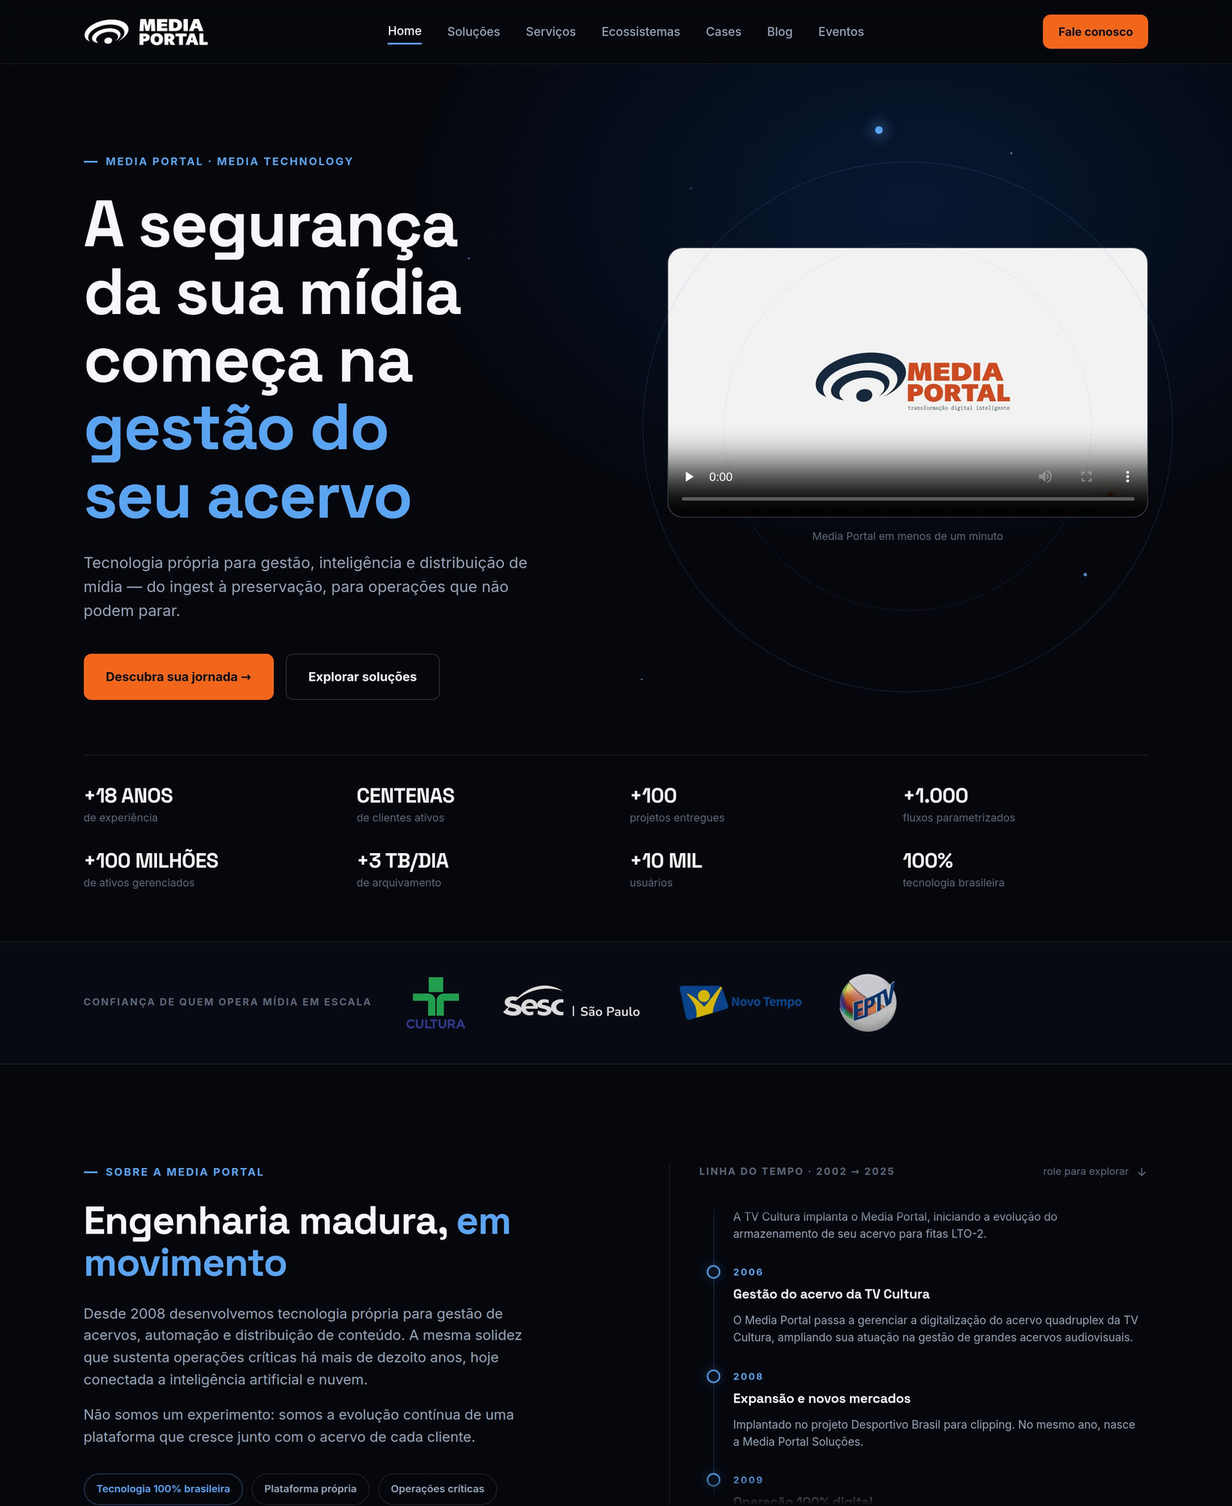
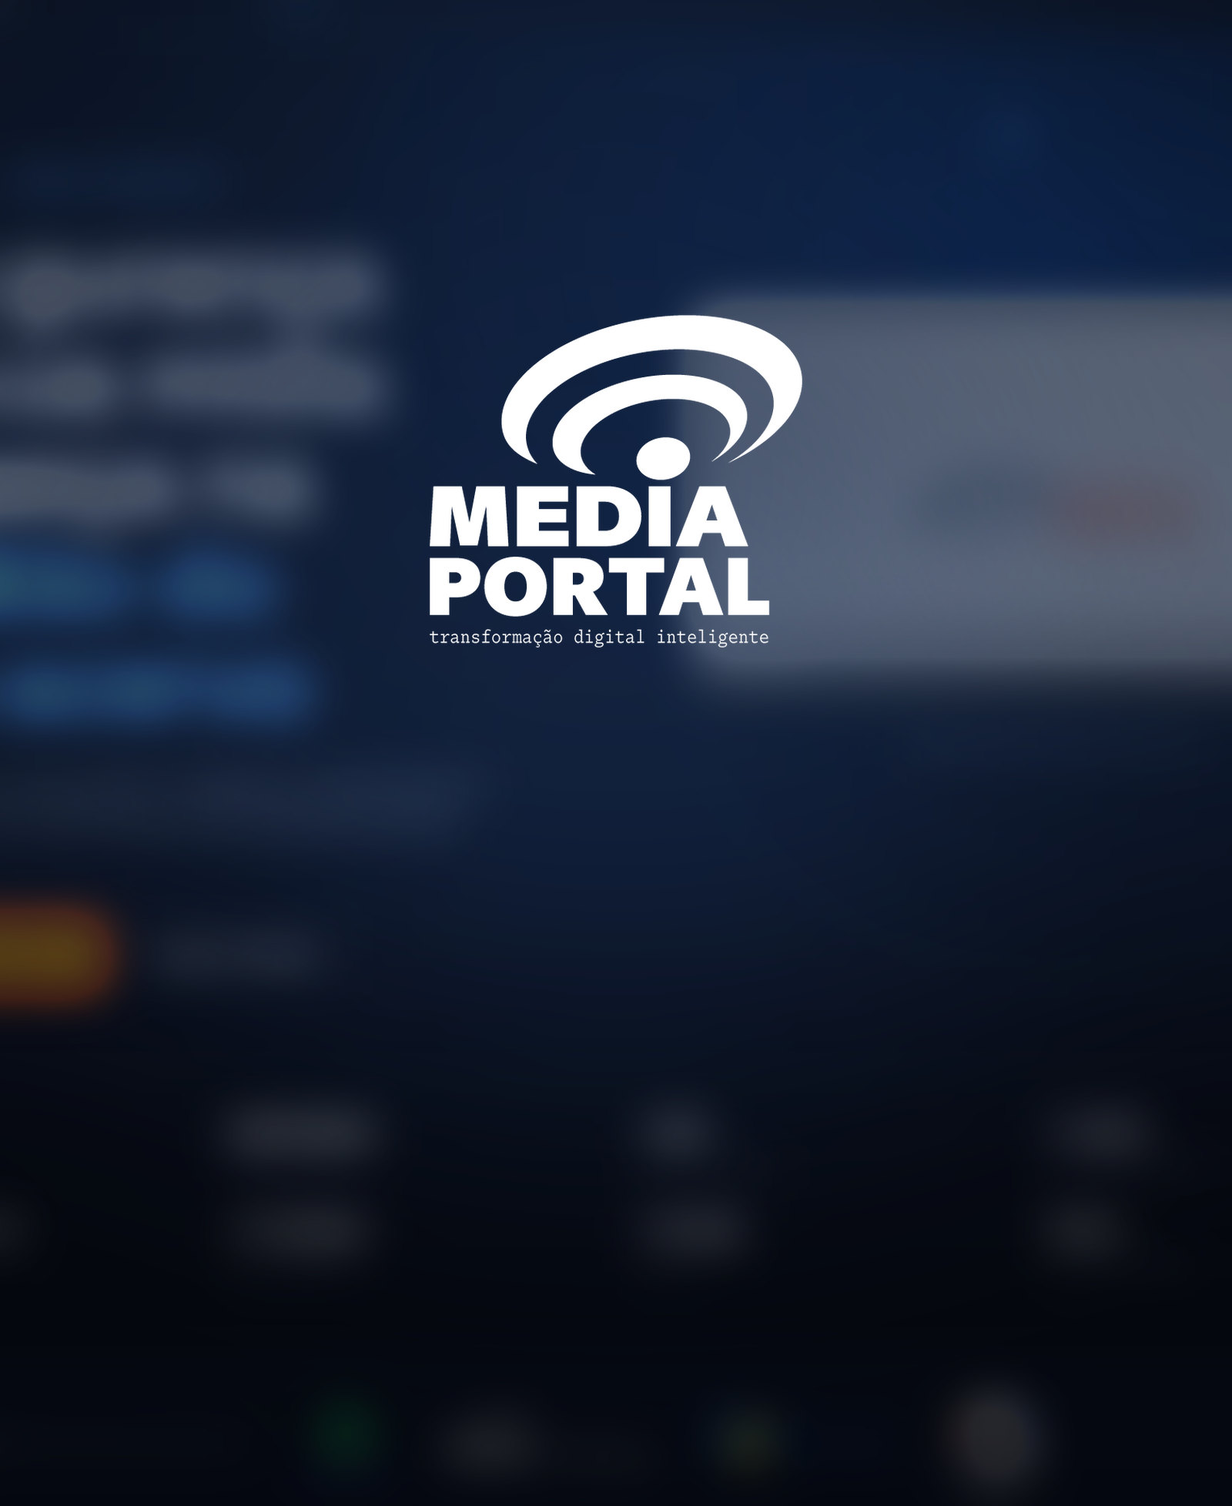
Capas dos casos sem texto disputando a leitura (#42)
A capa do Media Portal era o print legível da home, e a manchete do site
disputava com o título do caso: quem passava lia o texto errado. Agora o
mesmo print entra como textura — desfocado, escurecido, com as altas luzes
comprimidas — e o assunto é o logo da marca, centrado. A receita completa
(desfoque, véu, sombra radial, tamanho e posição do logo) está no README,
para refazer quando o site mudar.

Com o logo na capa, o título parava de repetir o nome: virou
"Reposicionamento digital", que é o trabalho.

A peça de campanha do Caso 03 continua montada na prancha, na proporção em
que foi feita, mas a prancha vazia em volta dela saiu: o mesmo arquivo
entra atrás, ampliado e desfocado, e a cor da peça toma o cartão inteiro.
Sem segunda imagem para baixar, e sem aparecer no papel.

Menos texto nas capas: cada uma ficou com um chapéu só — o segundo repetia
o setor, que já está no detalhe do caso — e a linha "toque em ver detalhes"
saiu da abertura da seção, já que o botão da capa diz isso.

Conferido nas duas larguras, em repouso e no hover.

Claude-Session: https://claude.ai/code/session_01DMZYf3j3xxU7wt98tdueK8

diff --git a/en/index.html b/en/index.html
@@ -1059,6 +1059,26 @@ button {
 .case__cover--piece .case__shot { display: block; width: 100%; height: auto; }
 .case__cover--piece .media__hint,
 .case__cover--piece .media__client { display: none; }
+/* O fundo da peça: o MESMO arquivo, ampliado e desfocado atrás dela. A prancha
+   vazia em volta de um banner era espaço morto no cartão; a própria arte
+   desfocada enche a capa sem trazer segunda imagem para baixar. O `inset`
+   negativo é o que impede a borda clara que o desfoque deixaria na moldura. */
+.case__fundo {
+  position: absolute;
+  inset: -10%;
+  width: 120%;
+  height: 120%;
+  /* o max-width: 100% global travaria a largura em 100% da capa e deixaria
+     uma tira da malha à mostra na direita */
+  max-width: none;
+  object-fit: cover;
+  filter: blur(34px) saturate(1.5) brightness(0.52);
+  z-index: 0;
+}
+/* A peça descola do fundo: sem sombra, arte e desfoque encostam e viram borrão. */
+.case__cover--piece .case__media .media {
+  box-shadow: 0 26px 60px rgba(4, 6, 12, 0.55);
+}
 
 /* Faixa de imagens: com uma só é a capa; com duas ou mais vira carrossel de
    arrasto nativo (scroll-snap), e o script acrescenta marcadores e teclado. */
@@ -1081,13 +1101,6 @@ button {
   object-fit: cover;
   scroll-snap-align: center;
 }
-/* Print de site não é fotografia: o assunto não está no meio, está no alto e à
-   esquerda — manchete, logo e menu. A capa muda de proporção entre o desktop
-   (quase quadrada) e o celular (bem mais alta), e o corte centralizado comia
-   justamente a primeira palavra da manchete na tela pequena. Ancorar no alto e
-   à esquerda faz o corte sair de onde não há informação: o rodapé da imagem no
-   desktop, a borda direita no celular. */
-.case__shot--print { object-position: 12% top; }
 .case__dots {
   position: absolute;
   z-index: 3;
@@ -1911,6 +1924,8 @@ select.field__input option { background: var(--bg-card); color: var(--ink); }
   .case__reveal { opacity: 1 !important; transform: none !important; transition: none !important; }
   .case__title::after { transform: none !important; }
   .case__cover:not(.case__cover--photo) { background: none; }
+  /* o fundo desfocado é efeito de tela: no papel seria um borrão de tinta */
+  .case__fundo { display: none !important; }
   a { color: inherit; }
 }
 </style>
@@ -2234,22 +2249,21 @@ select.field__input option { background: var(--bg-card); color: var(--ink); }
       <div>
         <h2 class="section-title" data-en="Proof, not promise." data-pt="Prova, não promessa.">Proof, not promise.</h2>
       </div>
-      <p class="section-intro" data-en="Tap “see details” to open the problem, the solution and the value delivered." data-pt="Toque em “ver detalhes” pra abrir problema, solução e valor entregue.">Tap “see details” to open the problem, the solution and the value delivered.</p>
     </div>
 
     <div class="cases" tabindex="0" role="group" aria-label="Project cases; focusing pauses the auto-advance" data-en-aria-label="Project cases; focusing pauses the auto-advance" data-pt-aria-label="Casos de projeto; o foco pausa o avanço automático">
 <!-- Caso 01 ─────────────────────────────────────────────────── -->
     <article class="case case--featured reveal">
-  <!-- Foto de capa: /img/casos/mediaportal.jpg — print do site no ar
-       (mediaportal.com.br), 1600×1956, retrato. A proporção fica entre a da
-       capa no desktop e a do celular, e `case__shot--print` ancora o corte no
-       alto e à esquerda: uma paisagem 16:10 perderia metade da largura no
-       `object-fit: cover` e a manchete entraria decepada. Sem o arquivo, a
+  <!-- Capa: /img/casos/mediaportal.jpg, 1600×1956. É o print da home no ar
+       (mediaportal.com.br) desfocado, com o logo oficial por cima — a receita
+       está no README. O print legível roubava a leitura: a manchete do site
+       disputava com o título do caso, e quem passava lia o texto errado. Como
+       textura, ele continua dizendo "site escuro, azul, com vídeo" sem pedir
+       leitura, e o corte do cartão não tem onde errar. Sem o arquivo, a
        moldura tracejada aparece. -->
   <div class="case__cover case__cover--photo">
     <div class="case__chips">
       <span class="case__chip"><span data-en="Case" data-pt="Caso">Case</span> 01</span>
-      <span class="case__chip" data-en="Joint" data-pt="Conjunto">Joint</span>
     </div>
     <div class="case__media">
       <figure class="media" data-slot="case-mediaportal">
@@ -2258,14 +2272,14 @@ select.field__input option { background: var(--bg-card); color: var(--ink); }
              script. A primeira é a capa — se ela faltar, o caso volta para a
              moldura de espera. -->
         <div class="case__shots">
-          <img class="case__shot case__shot--print" src="/img/casos/mediaportal.jpg" alt="Media Portal website home: headline “Your media's safety starts with managing your archive”, the institutional video beside it and the band of operating numbers" data-en-alt="Media Portal website home: headline “Your media's safety starts with managing your archive”, the institutional video beside it and the band of operating numbers" onerror="this.closest('.case__cover').classList.remove('case__cover--photo')" data-pt-alt="Home do site da Media Portal: manchete “A segurança da sua mídia começa na gestão do seu acervo”, vídeo institucional ao lado e a faixa de números da operação">
+          <img class="case__shot" src="/img/casos/mediaportal.jpg" alt="Media Portal logo over the blurred website home" data-en-alt="Media Portal logo over the blurred website home" onerror="this.closest('.case__cover').classList.remove('case__cover--photo')" data-pt-alt="Logo da Media Portal sobre a home do site, desfocada">
         </div>
         <span class="media__client">Media Portal Soluções</span>
         <figcaption class="media__hint" data-en="Awaiting the real site screenshot" data-pt="Aguardando print real do site">Awaiting the real site screenshot</figcaption>
       </figure>
     </div>
     <div class="case__caption">
-      <h3 class="case__title" data-en="Media Portal — Digital repositioning" data-pt="Media Portal — Reposicionamento digital">Media Portal — Digital repositioning</h3>
+      <h3 class="case__title" data-en="Digital repositioning" data-pt="Reposicionamento digital">Digital repositioning</h3>
       <div class="case__reveal">
         <p class="case__metric" data-en="18+ years of operation · full redesign" data-pt="18+ anos de operação · redesign completo">18+ years of operation · full redesign</p>
         <button type="button" class="case__toggle" aria-expanded="false" aria-controls="case-01-details"><span class="is-open" data-en="See details ↓" data-pt="Ver detalhes ↓">See details ↓</span><span class="is-close" data-en="Close ↑" data-pt="Fechar ↑">Close ↑</span></button>
@@ -2318,7 +2332,6 @@ select.field__input option { background: var(--bg-card); color: var(--ink); }
   <div class="case__cover case__cover--photo">
     <div class="case__chips">
       <span class="case__chip"><span data-en="Case" data-pt="Caso">Case</span> 02</span>
-      <span class="case__chip" data-en="Research" data-pt="Pesquisa">Research</span>
     </div>
     <div class="case__media">
       <figure class="media" data-slot="case-mindminers">
@@ -2383,11 +2396,16 @@ select.field__input option { background: var(--bg-card); color: var(--ink); }
 
     <!-- Caso 03 ─────────────────────────────────────────────────── -->
     <article class="case reveal">
-  <!-- Peça de campanha: /img/casos/ame-x.jpg, montada na prancha na proporção original (case__cover--piece) em vez de cobrir a capa. Sem o arquivo, a moldura tracejada aparece. -->
+  <!-- Peça de campanha: /img/casos/ame-x.jpg, montada na prancha na proporção
+       original (case__cover--piece) em vez de cobrir a capa — um banner de
+       3,7:1 cobrindo mostraria um terço de si. O que enche o resto do cartão é
+       o mesmo arquivo atrás, ampliado e desfocado (case__fundo): a cor da peça
+       toma a capa inteira e a arte continua inteira. Sem o arquivo, a moldura
+       tracejada aparece. -->
   <div class="case__cover case__cover--piece">
+    <img class="case__fundo" src="/img/casos/ame-x.jpg" alt="" aria-hidden="true" onerror="this.remove()">
     <div class="case__chips">
       <span class="case__chip"><span data-en="Case" data-pt="Caso">Case</span> 03</span>
-      <span class="case__chip" data-en="Validated case · X" data-pt="Case validado · X">Validated case · X</span>
     </div>
     <div class="case__media">
       <figure class="media" data-slot="case-x">
@@ -2456,7 +2474,6 @@ select.field__input option { background: var(--bg-card); color: var(--ink); }
   <div class="case__cover case__cover--photo">
     <div class="case__chips">
       <span class="case__chip"><span data-en="Case" data-pt="Caso">Case</span> 04</span>
-      <span class="case__chip" data-en="Fortune 500" data-pt="Fortune 500">Fortune 500</span>
     </div>
     <div class="case__media">
       <figure class="media" data-slot="case-corning">

diff --git a/index.html b/index.html
@@ -1059,6 +1059,26 @@ button {
 .case__cover--piece .case__shot { display: block; width: 100%; height: auto; }
 .case__cover--piece .media__hint,
 .case__cover--piece .media__client { display: none; }
+/* O fundo da peça: o MESMO arquivo, ampliado e desfocado atrás dela. A prancha
+   vazia em volta de um banner era espaço morto no cartão; a própria arte
+   desfocada enche a capa sem trazer segunda imagem para baixar. O `inset`
+   negativo é o que impede a borda clara que o desfoque deixaria na moldura. */
+.case__fundo {
+  position: absolute;
+  inset: -10%;
+  width: 120%;
+  height: 120%;
+  /* o max-width: 100% global travaria a largura em 100% da capa e deixaria
+     uma tira da malha à mostra na direita */
+  max-width: none;
+  object-fit: cover;
+  filter: blur(34px) saturate(1.5) brightness(0.52);
+  z-index: 0;
+}
+/* A peça descola do fundo: sem sombra, arte e desfoque encostam e viram borrão. */
+.case__cover--piece .case__media .media {
+  box-shadow: 0 26px 60px rgba(4, 6, 12, 0.55);
+}
 
 /* Faixa de imagens: com uma só é a capa; com duas ou mais vira carrossel de
    arrasto nativo (scroll-snap), e o script acrescenta marcadores e teclado. */
@@ -1081,13 +1101,6 @@ button {
   object-fit: cover;
   scroll-snap-align: center;
 }
-/* Print de site não é fotografia: o assunto não está no meio, está no alto e à
-   esquerda — manchete, logo e menu. A capa muda de proporção entre o desktop
-   (quase quadrada) e o celular (bem mais alta), e o corte centralizado comia
-   justamente a primeira palavra da manchete na tela pequena. Ancorar no alto e
-   à esquerda faz o corte sair de onde não há informação: o rodapé da imagem no
-   desktop, a borda direita no celular. */
-.case__shot--print { object-position: 12% top; }
 .case__dots {
   position: absolute;
   z-index: 3;
@@ -1911,6 +1924,8 @@ select.field__input option { background: var(--bg-card); color: var(--ink); }
   .case__reveal { opacity: 1 !important; transform: none !important; transition: none !important; }
   .case__title::after { transform: none !important; }
   .case__cover:not(.case__cover--photo) { background: none; }
+  /* o fundo desfocado é efeito de tela: no papel seria um borrão de tinta */
+  .case__fundo { display: none !important; }
   a { color: inherit; }
 }
 </style>
@@ -2234,22 +2249,21 @@ select.field__input option { background: var(--bg-card); color: var(--ink); }
       <div>
         <h2 class="section-title" data-en="Proof, not promise.">Prova, não promessa.</h2>
       </div>
-      <p class="section-intro" data-en="Tap “see details” to open the problem, the solution and the value delivered.">Toque em “ver detalhes” pra abrir problema, solução e valor entregue.</p>
     </div>
 
     <div class="cases" tabindex="0" role="group" aria-label="Casos de projeto; o foco pausa o avanço automático" data-en-aria-label="Project cases; focusing pauses the auto-advance">
 <!-- Caso 01 ─────────────────────────────────────────────────── -->
     <article class="case case--featured reveal">
-  <!-- Foto de capa: /img/casos/mediaportal.jpg — print do site no ar
-       (mediaportal.com.br), 1600×1956, retrato. A proporção fica entre a da
-       capa no desktop e a do celular, e `case__shot--print` ancora o corte no
-       alto e à esquerda: uma paisagem 16:10 perderia metade da largura no
-       `object-fit: cover` e a manchete entraria decepada. Sem o arquivo, a
+  <!-- Capa: /img/casos/mediaportal.jpg, 1600×1956. É o print da home no ar
+       (mediaportal.com.br) desfocado, com o logo oficial por cima — a receita
+       está no README. O print legível roubava a leitura: a manchete do site
+       disputava com o título do caso, e quem passava lia o texto errado. Como
+       textura, ele continua dizendo "site escuro, azul, com vídeo" sem pedir
+       leitura, e o corte do cartão não tem onde errar. Sem o arquivo, a
        moldura tracejada aparece. -->
   <div class="case__cover case__cover--photo">
     <div class="case__chips">
       <span class="case__chip"><span data-en="Case">Caso</span> 01</span>
-      <span class="case__chip" data-en="Joint">Conjunto</span>
     </div>
     <div class="case__media">
       <figure class="media" data-slot="case-mediaportal">
@@ -2258,14 +2272,14 @@ select.field__input option { background: var(--bg-card); color: var(--ink); }
              script. A primeira é a capa — se ela faltar, o caso volta para a
              moldura de espera. -->
         <div class="case__shots">
-          <img class="case__shot case__shot--print" src="/img/casos/mediaportal.jpg" alt="Home do site da Media Portal: manchete “A segurança da sua mídia começa na gestão do seu acervo”, vídeo institucional ao lado e a faixa de números da operação" data-en-alt="Media Portal website home: headline “Your media's safety starts with managing your archive”, the institutional video beside it and the band of operating numbers" onerror="this.closest('.case__cover').classList.remove('case__cover--photo')" />
+          <img class="case__shot" src="/img/casos/mediaportal.jpg" alt="Logo da Media Portal sobre a home do site, desfocada" data-en-alt="Media Portal logo over the blurred website home" onerror="this.closest('.case__cover').classList.remove('case__cover--photo')" />
         </div>
         <span class="media__client">Media Portal Soluções</span>
         <figcaption class="media__hint" data-en="Awaiting the real site screenshot">Aguardando print real do site</figcaption>
       </figure>
     </div>
     <div class="case__caption">
-      <h3 class="case__title" data-en="Media Portal — Digital repositioning">Media Portal — Reposicionamento digital</h3>
+      <h3 class="case__title" data-en="Digital repositioning">Reposicionamento digital</h3>
       <div class="case__reveal">
         <p class="case__metric" data-en="18+ years of operation · full redesign">18+ anos de operação · redesign completo</p>
         <button type="button" class="case__toggle" aria-expanded="false" aria-controls="case-01-details"><span class="is-open" data-en="See details ↓">Ver detalhes ↓</span><span class="is-close" data-en="Close ↑">Fechar ↑</span></button>
@@ -2318,7 +2332,6 @@ select.field__input option { background: var(--bg-card); color: var(--ink); }
   <div class="case__cover case__cover--photo">
     <div class="case__chips">
       <span class="case__chip"><span data-en="Case">Caso</span> 02</span>
-      <span class="case__chip" data-en="Research">Pesquisa</span>
     </div>
     <div class="case__media">
       <figure class="media" data-slot="case-mindminers">
@@ -2383,11 +2396,16 @@ select.field__input option { background: var(--bg-card); color: var(--ink); }
 
     <!-- Caso 03 ─────────────────────────────────────────────────── -->
     <article class="case reveal">
-  <!-- Peça de campanha: /img/casos/ame-x.jpg, montada na prancha na proporção original (case__cover--piece) em vez de cobrir a capa. Sem o arquivo, a moldura tracejada aparece. -->
+  <!-- Peça de campanha: /img/casos/ame-x.jpg, montada na prancha na proporção
+       original (case__cover--piece) em vez de cobrir a capa — um banner de
+       3,7:1 cobrindo mostraria um terço de si. O que enche o resto do cartão é
+       o mesmo arquivo atrás, ampliado e desfocado (case__fundo): a cor da peça
+       toma a capa inteira e a arte continua inteira. Sem o arquivo, a moldura
+       tracejada aparece. -->
   <div class="case__cover case__cover--piece">
+    <img class="case__fundo" src="/img/casos/ame-x.jpg" alt="" aria-hidden="true" onerror="this.remove()" />
     <div class="case__chips">
       <span class="case__chip"><span data-en="Case">Caso</span> 03</span>
-      <span class="case__chip" data-en="Validated case · X">Case validado · X</span>
     </div>
     <div class="case__media">
       <figure class="media" data-slot="case-x">
@@ -2456,7 +2474,6 @@ select.field__input option { background: var(--bg-card); color: var(--ink); }
   <div class="case__cover case__cover--photo">
     <div class="case__chips">
       <span class="case__chip"><span data-en="Case">Caso</span> 04</span>
-      <span class="case__chip" data-en="Fortune 500">Fortune 500</span>
     </div>
     <div class="case__media">
       <figure class="media" data-slot="case-corning">

diff --git a/README.md b/README.md
@@ -232,10 +232,10 @@ estar nessa lista**. (O provider Google já está ativo no projeto.)
   (amwc, ame-tom-de-voz, gipsyy). **Esta lista é a seleção aprovada; não
   acrescentar nomes sem aprovação** — os cases retirados na rodada 2 não
   voltam. Já estão no ar: `corning` (foto do barco), `mindminers` (banco de
-  praça), `ame-x` (banner Cashback Friday), `mediaportal` (print da home do
-  site no ar), `amwc` (cartaz) e `ame-tom-de-voz` (banner do super app + grade
-  de serviços). **Falta `gipsyy`.** Basta salvar o arquivo com esse
-  nome; enquanto ele não existe, o `onerror` do `<img>` deixa a capa na
+  praça), `ame-x` (banner Cashback Friday), `mediaportal` (a home do site
+  desfocada com o logo por cima), `amwc` (cartaz) e `ame-tom-de-voz` (banner do
+  super app + grade de serviços). **Falta `gipsyy`.** Basta salvar o arquivo
+  com esse nome; enquanto ele não existe, o `onerror` do `<img>` deixa a capa na
   moldura de espera sobre uma malha de desenho (as imagens ausentes respondem
   404, que é barato). O que está no ar é JPEG progressivo, 1600 px de largura
   nas capas e o tamanho original nos cards; WebP/AVIF fica para quando houver
@@ -246,12 +246,22 @@ estar nessa lista**. (O provider Google já está ativo no projeto.)
   que foi feita — cobrindo, um banner de 3,7:1 numa capa quase quadrada
   mostraria um terço de si. O `onerror` de cada `<img>` remove a classe do seu
   modo, e a capa volta para a moldura de espera.
-  **Print de site pede enquadramento retrato e âncora no canto**
-  (`case__shot--print`, hoje só no `mediaportal`): a capa é quase quadrada no
-  desktop e bem mais alta no celular, e um print em paisagem perde metade da
-  largura no corte — a manchete entra decepada. O do Media Portal é 1600×1956,
-  a home inteira até a faixa de clientes, com o corte ancorado no alto e à
-  esquerda, que é onde moram logo, menu e manchete.
+  **Print de site não entra legível.** O do Media Portal entrou, e a manchete
+  do site disputava a leitura com o título do caso — quem passava lia o texto
+  errado. A capa de hoje é o mesmo print virado textura: desfocado, escurecido
+  e com o logo oficial da marca por cima, que é o que se quer comunicar.
+  Também resolve o corte, porque uma textura não tem onde ser decepada — a
+  capa é quase quadrada no desktop e bem mais alta no celular.
+  A receita, para refazer se o site mudar: print da home em 1440px de largura
+  (só a primeira dobra), desfoque gaussiano de ~28px sobre 1600px, altas luzes
+  comprimidas (o painel branco do vídeo vira brilho, não bloco), sombra radial
+  atrás do logo, véu escurecendo o terço de baixo — é lá que caem título,
+  métrica e botão — e o logo branco da marca a 31% da largura, centrado a 32%
+  da altura. Resultado: 1600×1956, retrato.
+  **Peça de campanha ganha o próprio fundo** (`case__fundo`): o mesmo arquivo
+  entra atrás, ampliado e desfocado, para a cor da peça tomar o cartão inteiro.
+  A prancha vazia em volta de um banner era espaço morto, e uma segunda imagem
+  só para preencher seria peso a mais para baixar. No papel ele some.
   Um caso aceita **mais de uma imagem**: é duplicar o `<img class="case__shot">`
   dentro da `<div class="case__shots">`. A partir da segunda, a faixa vira
   carrossel — arrasto nativo por scroll-snap, marcadores e setas do teclado
